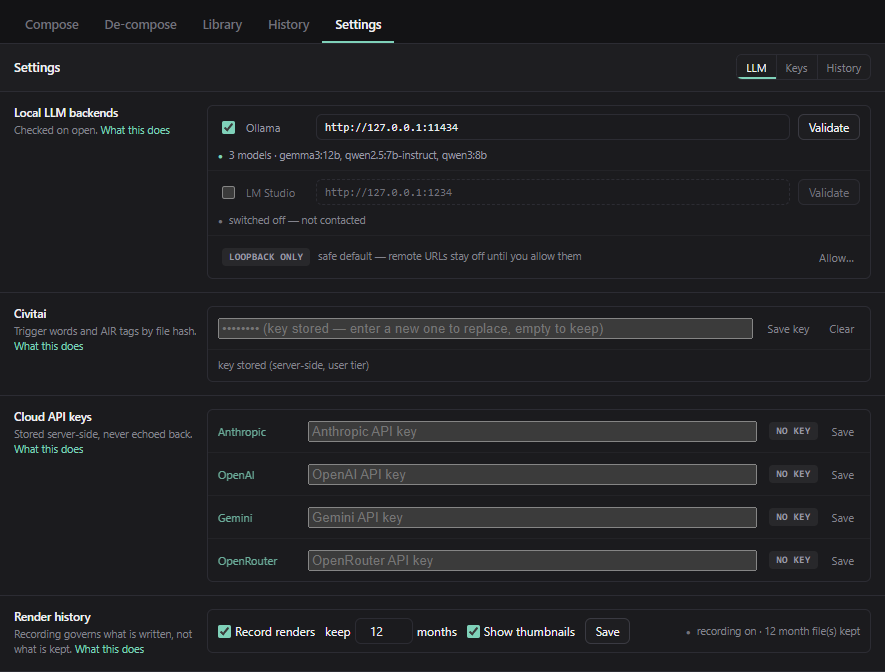
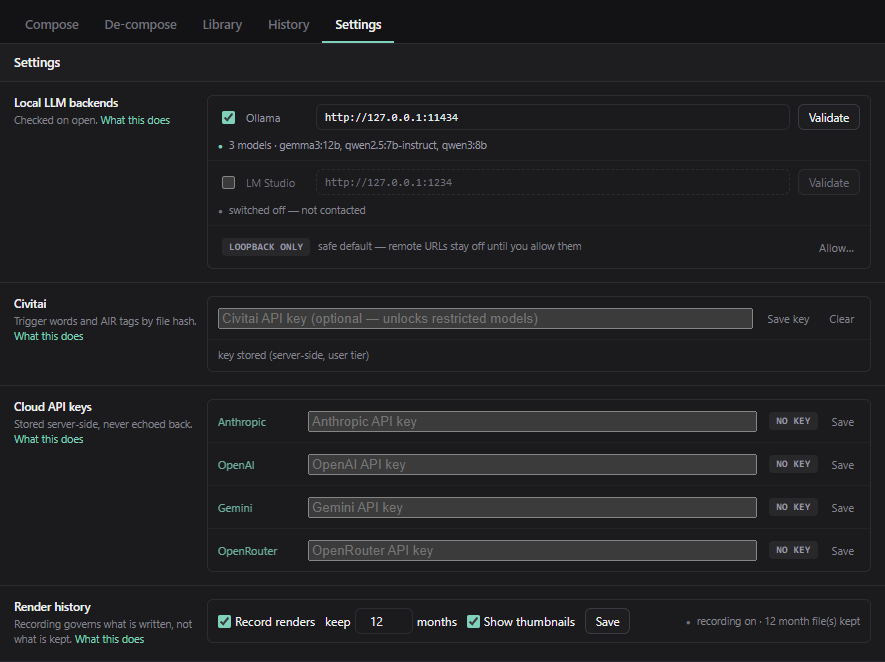
Drop the Settings group strip — it could not change what you see
The mock drew a Backends|Keys|History strip beside a page that showed every
group anyway, so once all three stayed on one page (your call, and the right
one) the control had nothing left to do: as a filter it hid two thirds of a
short tab, and as a jump it scrolled to something already on screen. It was
chrome that looked interactive and was not, which is worse than no control —
and it went into the screenshot saying so.

Gone, with the state and localStorage key that existed only for it. The guide
paragraph that described it went too.

11-settings re-shot without it. 2024 pytest + 533 node:test green.

diff --git a/web/js/composer/settings.js b/web/js/composer/settings.js
@@ -21,7 +21,6 @@
 // HARD RULE for this file: ZERO top-level side effects (ComfyUI auto-imports
 // every .js under WEB_DIRECTORY — see composer/util.js).
 import { armDestructive, busy, el, mount } from "./dom.js";
-import { writeSettingsTab } from "./state.js";
 
 // ---- pure logic (exported for tests) ---------------------------------------
 
@@ -590,28 +589,11 @@ export function createSettings(hub) {
     };
     const box = (...rows) => el("div", { class: "pc-set-box" }, ...rows.flat().filter(Boolean));
 
-    // The strip JUMPS, it does not filter. All three groups fit on one page,
-    // and hiding two thirds of a short tab to save a scroll costs more than it
-    // saves — you would have to remember which third a setting lives in.
-    const anchors = new Map();
-    const subTab = (name, text) =>
-      el(
-        "button",
-        {
-          class: "mrln-btn pc-seg",
-          "aria-pressed": String(state.settingsTab === name),
-          title: `Jump to ${text}`,
-          onclick: (e) => {
-            state.settingsTab = name;
-            writeSettingsTab(name);
-            for (const seg of e.currentTarget.parentElement.children) {
-              seg.setAttribute("aria-pressed", String(seg === e.currentTarget));
-            }
-            anchors.get(name)?.scrollIntoView({ block: "start", behavior: "smooth" });
-          },
-        },
-        text
-      );
+    // No group strip. It was drawn in the mock beside a page that showed every
+    // group anyway, so once all three stayed on one page it had nothing left
+    // to do: as a filter it hid two thirds of a short tab, and as a jump it
+    // scrolled to something already on screen. A control that cannot change
+    // what you see is worse than no control.
 
     const groups = {
       llm: () => [
@@ -695,28 +677,16 @@ export function createSettings(hub) {
     };
 
     const paint = () => {
-      // every group, in one page — the strip above only moves you to one
-      const rendered = [];
-      for (const name of ["llm", "keys", "history"]) {
-        const rows = groups[name]();
-        anchors.set(name, rows[0]);
-        rendered.push(...rows);
-      }
       mount(
         settingsTab,
         el(
           "div",
           { class: "pc-set-head" },
-          el("span", { class: "pc-set-title" }, "Settings"),
-          el(
-            "div",
-            { class: "pc-segmented" },
-            subTab("llm", "LLM"),
-            subTab("keys", "Keys"),
-            subTab("history", "History")
-          )
+          el("span", { class: "pc-set-title" }, "Settings")
         ),
-        ...rendered
+        ...groups.llm(),
+        ...groups.keys(),
+        ...groups.history()
       );
     };
     paint();

diff --git a/web/js/composer/state.js b/web/js/composer/state.js
@@ -66,30 +66,6 @@ export function writeTierPref(view) {
   }
 }
 
-// Which group of Settings the strip is pointing at. All three are on ONE
-// page — the tab is short enough that hiding two thirds of it to save a
-// scroll would cost more than it saves — so this is a JUMP, not a filter, and
-// it is persisted only so the strip agrees with itself across a reopen.
-export const SETTINGS_TAB_KEY = "mrln.composer.settingsTab";
-export const SETTINGS_TABS = ["llm", "keys", "history"];
-
-export function readSettingsTab() {
-  try {
-    const value = window.localStorage.getItem(SETTINGS_TAB_KEY);
-    return SETTINGS_TABS.includes(value) ? value : "llm";
-  } catch {
-    return "llm";
-  }
-}
-
-export function writeSettingsTab(name) {
-  try {
-    window.localStorage.setItem(SETTINGS_TAB_KEY, SETTINGS_TABS.includes(name) ? name : "llm");
-  } catch {
-    /* see writeGridPref */
-  }
-}
-
 /** The panel's single state object — created once, shared by every module. */
 export function createState() {
   const state = {
@@ -152,7 +128,6 @@ export function createState() {
     grid: readGridPref(),
     // Library tab tier view: "all" | "factory" | "user", also remembered
     libTier: readTierPref(),
-    settingsTab: readSettingsTab(), // which Settings group is showing
     thumbEpoch: 0,
     libGroups: new Set(), // Library tab: expanded top-level slug groups
     nestOpen: new Set(), // nested-draw branches the user explicitly opened/closed

diff --git a/docs/prompt-composer-guide.md b/docs/prompt-composer-guide.md
@@ -636,8 +636,8 @@ pictures of the renders you just cleared should not outlive the records.
 
 Each setting is one row: what it is on the left, the controls on the right, and
 the long explanation behind **What this does** rather than sitting between the
-inputs. Everything is on one page — **LLM · Keys · History** at the top jumps to
-a group rather than hiding the other two.
+inputs — so the tab reads as a list of settings instead of documentation with
+inputs in it.
 
 - **Civitai API key** — stored server-side in your user tier, never echoed back
   and never written into a workflow. Everything that talks to Civitai goes
